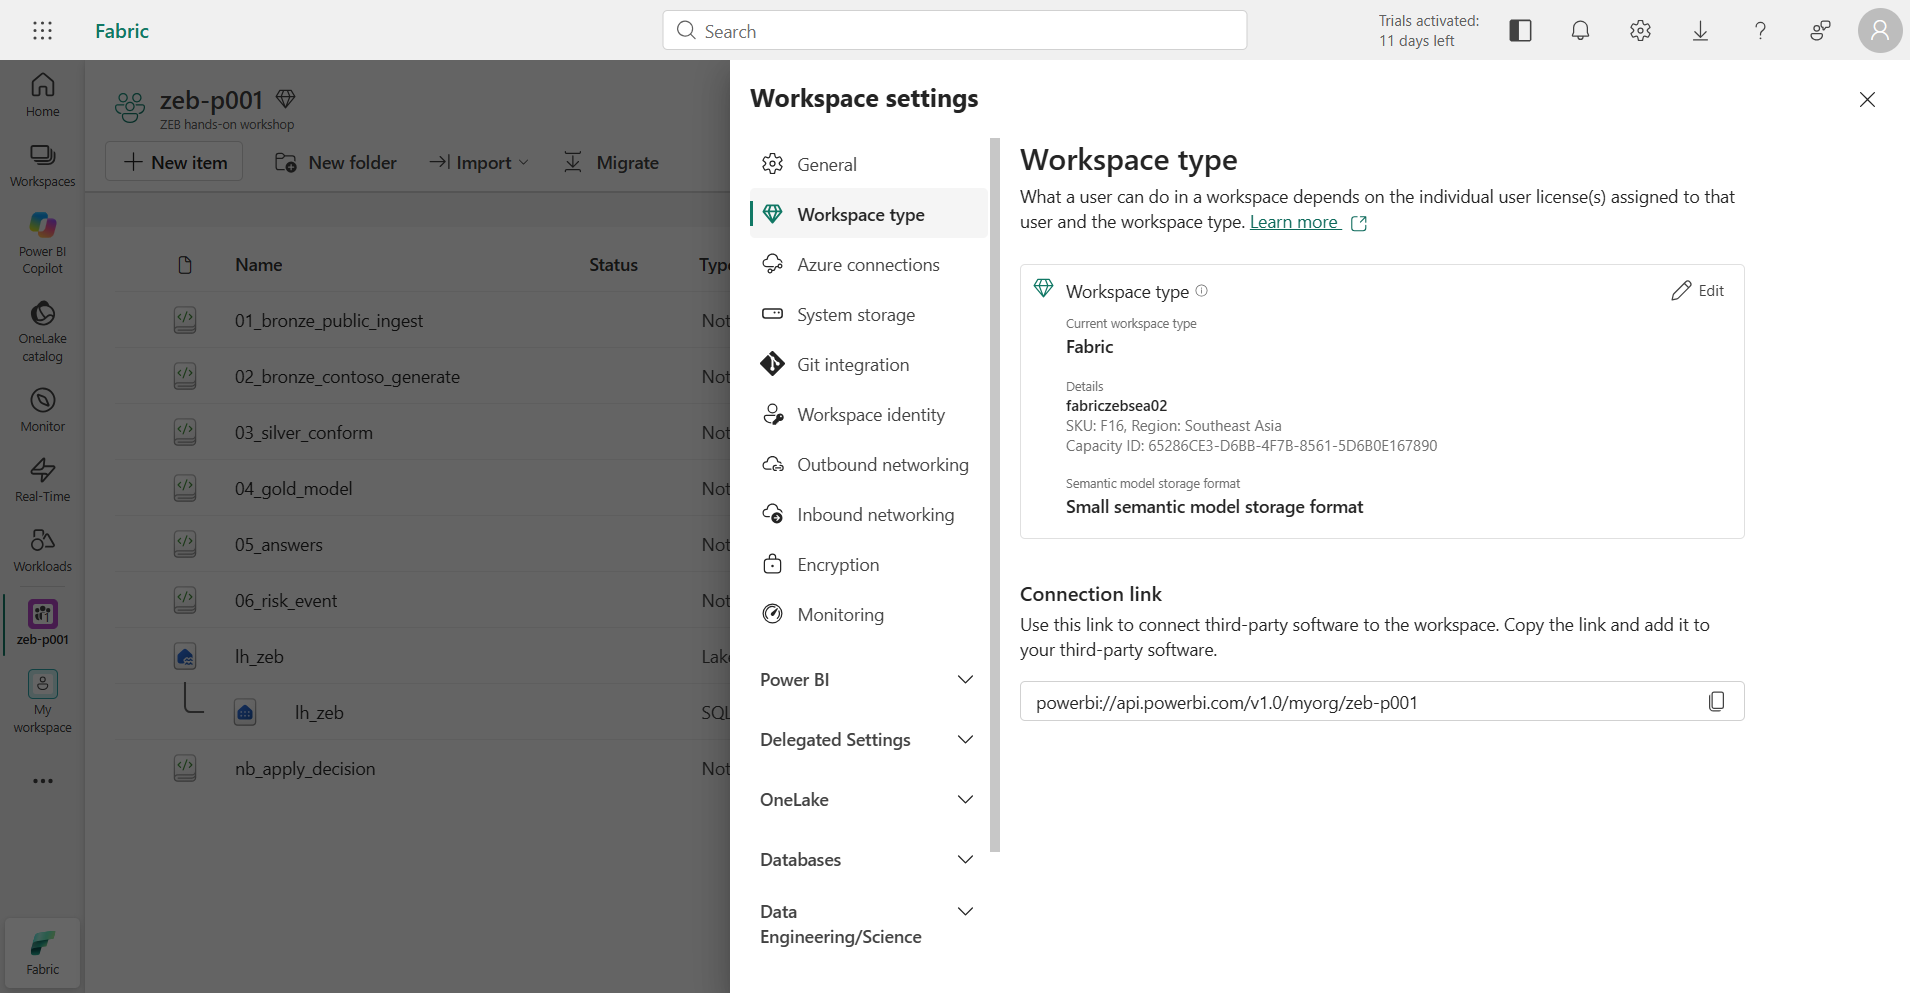
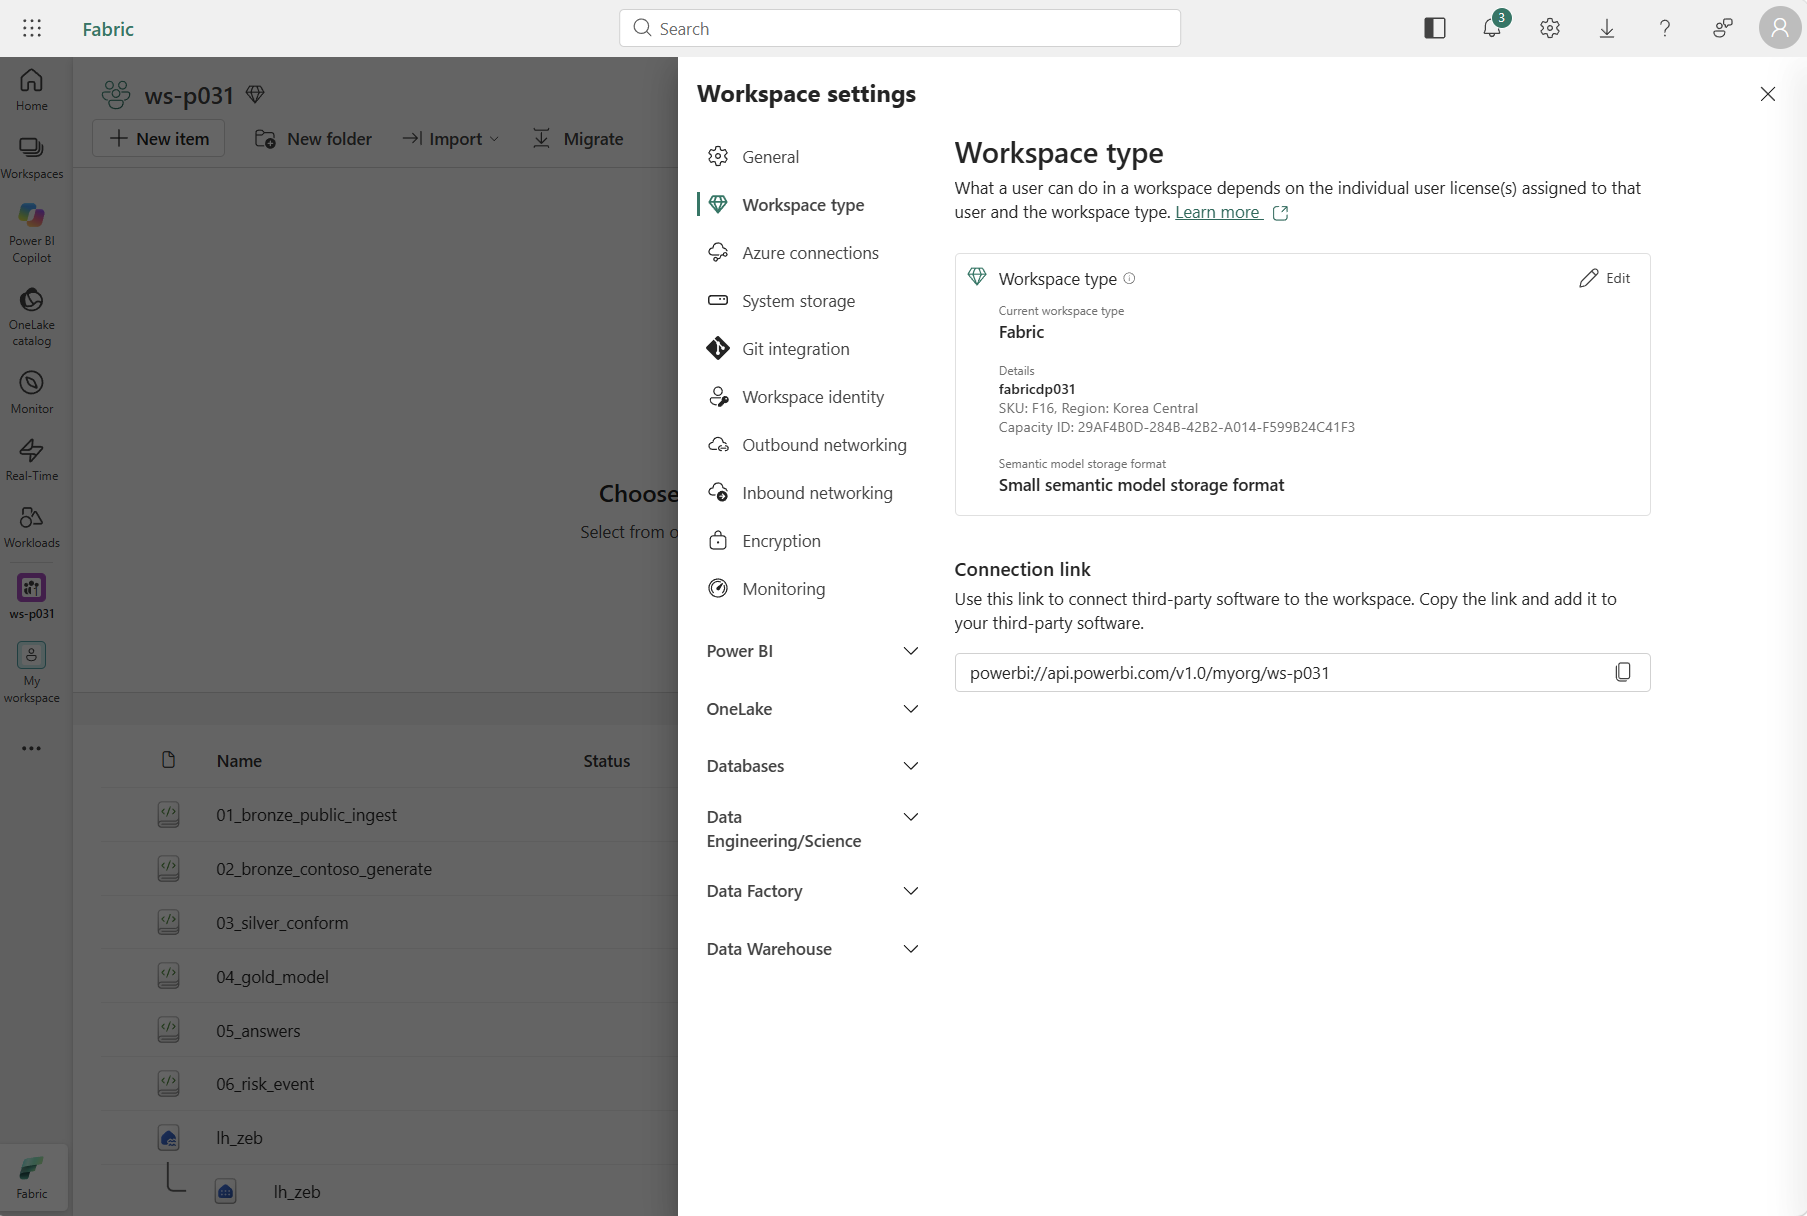
Add chapter 01 Lakehouse creation and connection screenshots

diff --git a/docs/01-workspace.md b/docs/01-workspace.md
@@ -23,7 +23,7 @@ Fabric 접속 → 작업 영역 유형 확인 → Notebook 7개 확인 → Lakeh
 
 예상 결과: Current workspace type이 Fabric이고, Details에 관리자가 안내한 용량 이름과 SKU가 보입니다. Trial이나 Pro로 표시되면 Copilot·Operations agent 단계를 진행할 수 없으니 관리자에게 알립니다. 확인했으면 오른쪽 위 X로 설정 창을 닫습니다.
 
-<img src="../assets/screenshots/d01-workspace-type.png" width="1000" alt="Workspace settings의 Workspace type 화면. Current workspace type은 Fabric이고 Details에 용량 fabriczebsea02, SKU F16, Region Southeast Asia가 보입니다." />
+<img src="../assets/screenshots/d01-workspace-type.png" width="1000" alt="Workspace settings의 Workspace type 화면. Current workspace type이 Fabric이고 Details에 할당된 용량, SKU F16, Region Korea Central이 표시됩니다." />
 
 ## 2. 작업 영역 항목 확인
 
@@ -48,9 +48,14 @@ Notebook이 없다면 관리자에게 준비를 요청합니다. 원본은 [note
 1.  본인 작업 영역에서 + New item을 누르고 `Lakehouse`로 검색해 Lakehouse를 선택합니다.
 2.  Name에 `lh_zeb`를 입력하고 Location이 본인 작업 영역인지 확인합니다.
 3.  Lakehouse schemas / 스키마 사용을 켠 뒤 Create를 누릅니다. 기본으로 켜져 있어도 그대로 유지합니다.
+
+    <img src="../assets/screenshots/d01-create-lakehouse.png" width="700" alt="New Lakehouse 창. Name에 lh_zeb가 입력되어 있고 Location에서 작업 영역을 선택하며 Lakehouse schemas가 체크된 상태로 Create 버튼이 보입니다." />
+
 4.  생성된 `lh_zeb`를 열고 왼쪽 Explorer의 Tables 아래에 `dbo` 스키마가 있는지 확인합니다. `bronze`·`silver`·`gold`·`ops` 스키마는 이후 Notebook이 만듭니다.
 
 예상 결과: 본인 작업 영역에 Lakehouse `lh_zeb`와 같은 이름의 SQL analytics endpoint가 생깁니다. Tables에는 아직 실습 데이터가 없고 Files도 비어 있습니다. 파일 업로드는 필요하지 않습니다.
+
+<img src="../assets/screenshots/d01-lakehouse-created.png" width="1000" alt="생성 직후 lh_zeb 화면. Explorer에 Tables 아래 dbo 스키마와 Files가 있으며, 위쪽에 SQL analytics endpoint 생성 중 안내가 표시됩니다." />
 
 이미 `lh_zeb`가 있으면 새로 만들거나 삭제하지 말고 본인 작업 영역의 스키마 사용 Lakehouse인지 확인합니다. 기존 실습 데이터가 있다면 관리자에게 초기 상태를 확인한 뒤 진행합니다.
 
@@ -60,6 +65,9 @@ Notebook 코드는 테이블을 `bronze.pub_zeb_cert`처럼 스키마.테이블 
 
 1.  작업 영역으로 돌아가 `01_bronze_public_ingest`를 엽니다. Copilot 소개 창이 뜨면 Skip for now를 누릅니다.
 2.  왼쪽 Explorer의 Add data items → From OneLake catalog에서 본인 작업 영역의 Lakehouse 아이콘 `lh_zeb`를 체크하고 Add를 누릅니다. 같은 이름의 SQL analytics endpoint를 고르지 않습니다. 이미 연결되어 있다면 중복으로 추가하지 않습니다.
+
+    <img src="../assets/screenshots/d01-notebook-add-lakehouse.png" width="1000" alt="01_bronze_public_ingest Notebook의 Explorer. No data sources added 아래 Add data items 메뉴를 펼쳐 From OneLake catalog를 선택하는 화면입니다." />
+
 3.  Data items → OneLake 아래 `lh_zeb`의 …에서 Set as default lakehouse를 누르고, 이름 오른쪽에 핀 아이콘(기본 Lakehouse 표시)이 생겼는지 확인합니다. 이미 핀이 있으면 그대로 둡니다.
 4.  나머지 Notebook 6개도 같은 방법으로 확인합니다.
 
